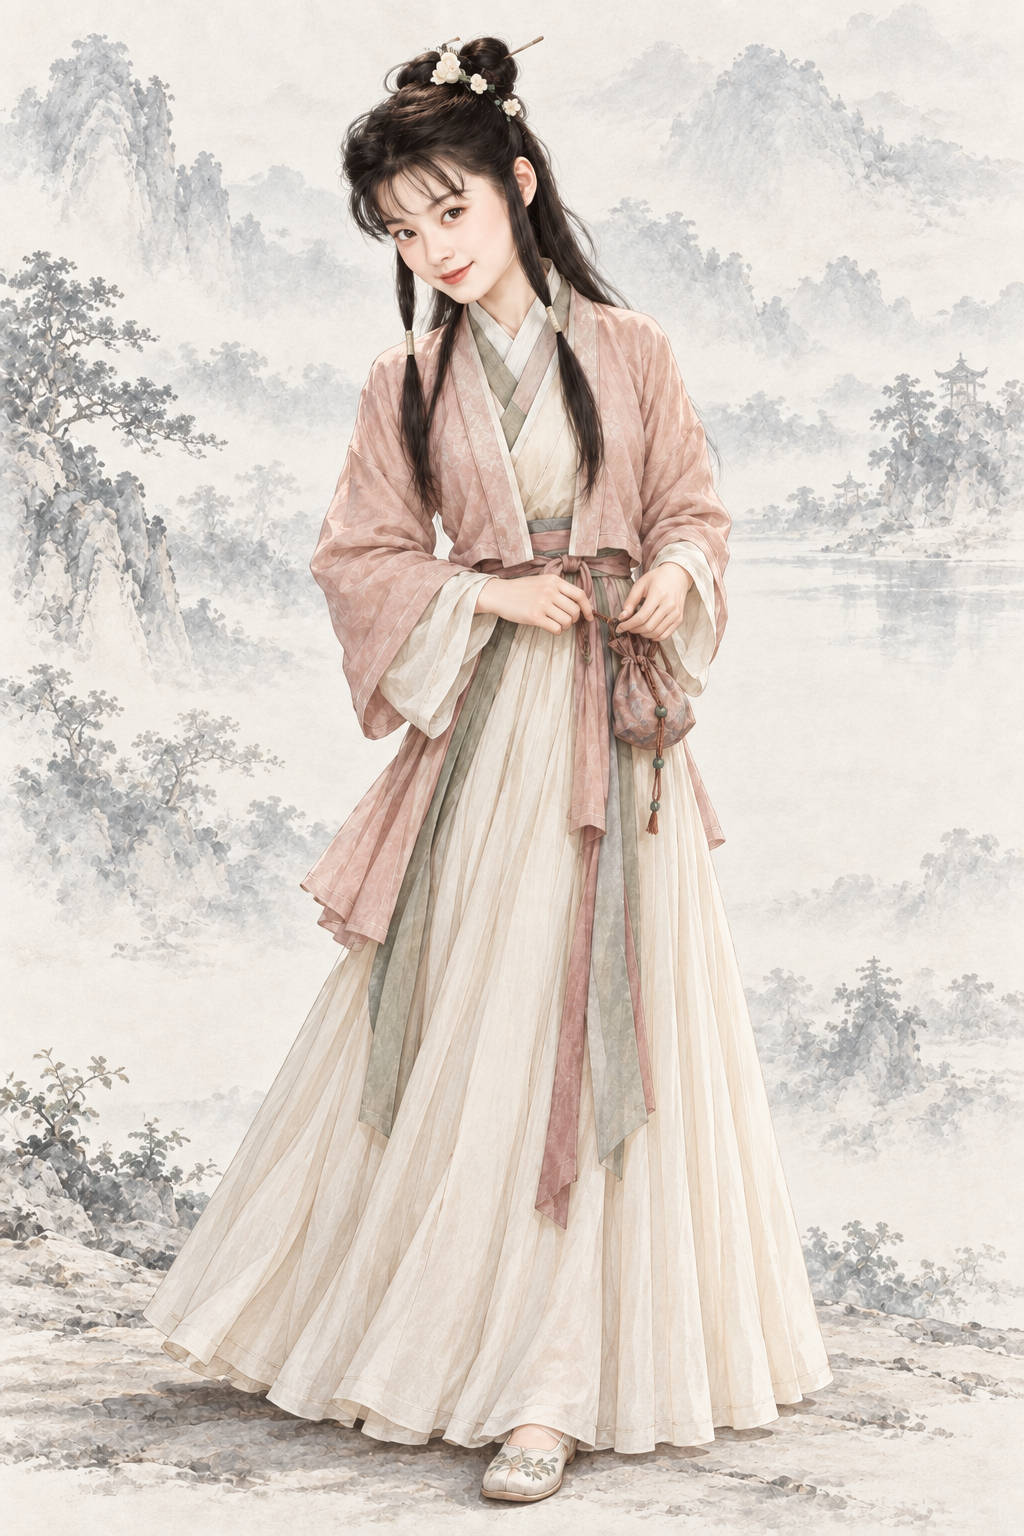
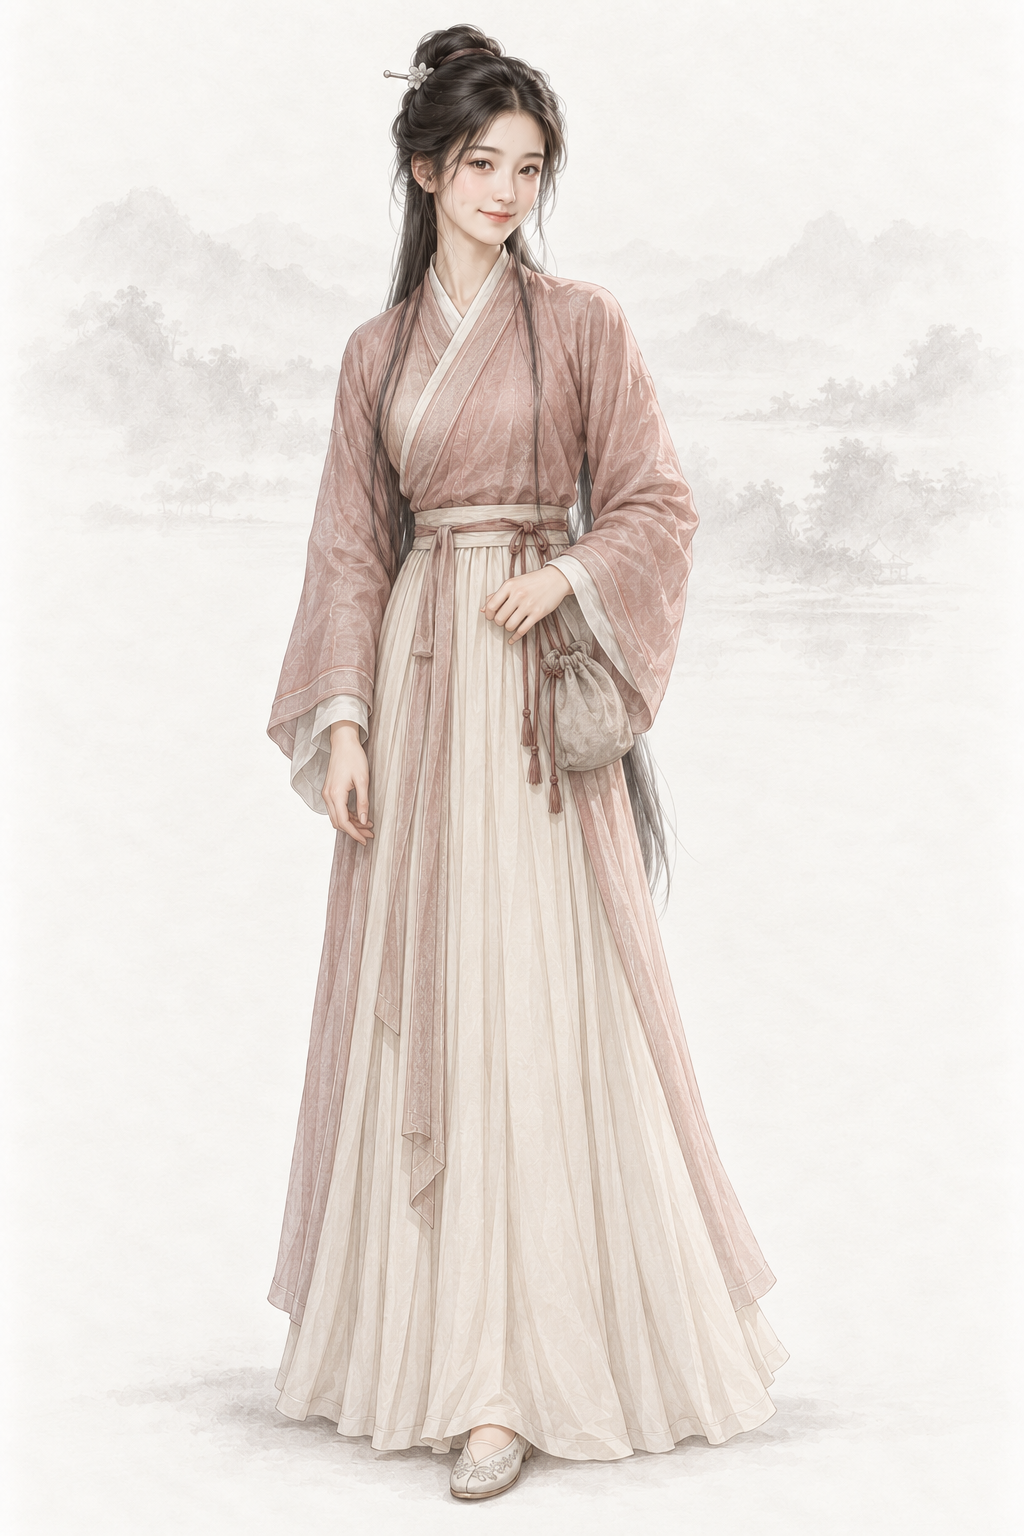
assets(character): por_npc_azhu__ch01_youth_alive_base 阿朱（codex）
AR-31：重要人物加经典造型文字描写（原创面孔）

diff --git a/assets/default/prompts/characters/ch01-tianlong/npc_azhu.md b/assets/default/prompts/characters/ch01-tianlong/npc_azhu.md
@@ -22,11 +22,32 @@ realism_revision: user_character_realism_20261001
 redo_reason: "面容与发饰几乎照搬剧集剧照且显少女幼态，按原著“鹅蛋脸、眼珠灵动、淡绛纱衫”画成成年年轻女子"
 reference_upload:
 - assets/default/baseline/character/female/ref_npc_wangyuyan__ch01_base01.png
+codex_prompt_rev: 2026-10-02
 ---
 
 # 阿朱 · 人物写实修正
 
 ## Gemini 提示词
+
+> 2026-10-02 AR-31 改写（1 号出图员，codex exec · image_gen 出图）：重要人物借鉴经典影视造型，只写成文字——不写演员名、不上传剧照、原创面孔；主角和美人画得好看，去 AI 味，禁止幼态。出图时上传两张同性别基线立绘作画风参考（放在最后）。审核组原稿保留在下一节作历史。
+
+```text
+生成一张 2:3 竖幅全身人物立绘：单人、单一视角、完整全身——头顶、双手、双脚和手中器物的两端都在画面内，四周留出自然空白；人物站姿自然，身体基本朝向正面，头部端正（不歪头、不仰不俯），镜头平视。
+【画风】写实手绘古风人物插画，与本项目写实武侠角色立绘同一画风：人物是完整、坚实、比例真实的写实绘画；皮肤有真实质感——细小毛孔、细纹、晒痕、轻微色斑和自然的左右不对称，不磨皮、不油亮；头发有一根根的发丝和自然碎发；布料看得出经纬纹理、厚薄和自然垂坠的褶皱，带穿用过的轻微旧化，但完整不破烂；整体设色低饱和、沉稳；柔和的自然光从左上方照来，明暗过渡自然，不打舞台光、轮廓光或美颜柔光。这是手绘写实绘画，不是照片，不是三维渲染，也不是动漫或游戏 CG。
+【背景】不透明的暖浅灰色纸底，只在远处有极淡的水墨远山和薄雾，大面积留白；人物与背景明暗分明、轮廓边缘干净完整（后续要自动抠图），水墨和纸纹只在背景里，不侵入人物和衣服；脚下只有很淡的一点接触阴影。
+【人物】阿朱，《天龙八部》姑苏慕容家的侍女，精于易容；与萧峰同行、小镜湖悲剧之前，以本来面目示人。温柔聪慧、善解人意，又有点俏皮。
+【年龄与体态】原著十六七岁，按本作规定画成约二十岁的成年年轻女子，身量娇小玲珑但为成人比例。成年女性的身体比例（约 7 头身），衣着完整端庄、不透明、不暴露、不性感化。
+【经典造型】借鉴经典武侠影视里这个角色深入人心的造型，只取发型、装束、配色、标志道具、气质和脸型类型，用原创面孔画出来，不像任何真实演员：温柔俏皮的阿朱——一身淡绛红衣裙，乌发挽成简单的发髻、插一支小小的花簪，笑起来甜美温柔、眼珠灵动，善解人意又带点调皮。
+【面容】原著写她鹅蛋脸、眼珠灵动、肌肤白腻、笑起来俏皮。具体为：偏短的鹅蛋脸、下巴圆润；一双灵动的眼睛，黑眼珠亮而有神、眼尾微翘；眉毛弯而清秀；小巧的鼻子、鼻头微翘；嘴角天生上扬，笑时右颊有个浅浅的酒窝（原创扩展）；肌肤白净。温柔甜美、楚楚动人的美人。
+【发式】乌黑的头发挽成江南女子的发髻，两侧各留一小束，鬓边一支细银簪，不戴大朵花饰。
+【服饰】原著是淡绛色纱衫：淡绛色（浅红褐）交领右衽窄袖短衫（外层不透明，内有衬衫），暖米色长裙，素色布带，平底布鞋。
+【道具】腰侧挂一只合口的小布包（易容用具，包口收好，不露出人皮面具）；双手空着。
+【姿态与神情】身体基本正面、微微前倾像在倾听，一手轻扶布包系带；眼神温暖机敏，嘴角带俏皮的笑意。
+【不要】画面里不要任何文字、题款、印章、签名、水印、边框、分格或多视图；不要第二个人；不要幼态（童颜、娃娃脸、婴儿肥、儿童或少年身材、大头小身）；不要塑料感皮肤、磨皮美颜、网红脸（尖下巴大眼高鼻的模板脸）、过度对称、浓妆、偶像式打光、蜡像感；不要照片质感、三维渲染或动漫大眼；不要歪头、斜镜头；不要多指、缺指（设定的伤残除外）、手与器物粘连或悬空；汉式交领必须右衽（穿着者的左襟压在右襟上），不要左衽（设定为少数民族服制的除外），不要水平镜像；不要现代物品、发光特效、法阵或能量光。不要少女或儿童身材、娃娃脸；不要头顶成簇白花；不要粉色仙女裙、披帛；不要别人的易容面孔或面具。
+【画风基线】随提示词上传的参考图里，最后两张是本项目的立绘画风基线：只参考它们的画风、用色、光线、质感和暖浅灰纸底加淡水墨的背景处理，整体画风必须与它们一致——精细写实的数字手绘插画，不是油画，不要厚涂笔触和画布纹理。参考图只取画风、光线、质感和背景处理，不取长相：不要照搬基线图里人物的长相、年龄、发型、服饰和姿势。
+```
+
+## 审核组 Gemini 提示词（2026-10-02 AR-30 重审稿；AR-31 改写前，历史，不再用于出图）
 
 > 2026-10-02 重要人物立绘重审（A 组，`tools/agents/reports/REVIEW-portraits-A-ch00-04.md`）：**整体重出**。面容与发饰几乎照搬剧集剧照且显少女幼态，按原著“鹅蛋脸、眼珠灵动、淡绛纱衫”画成成年年轻女子。
 > 本条不上传任何参考图（`reference_upload: []`）；frontmatter 的 `references` 与本节以下内容是旧出图管线的历史记录，不再用于出图。
